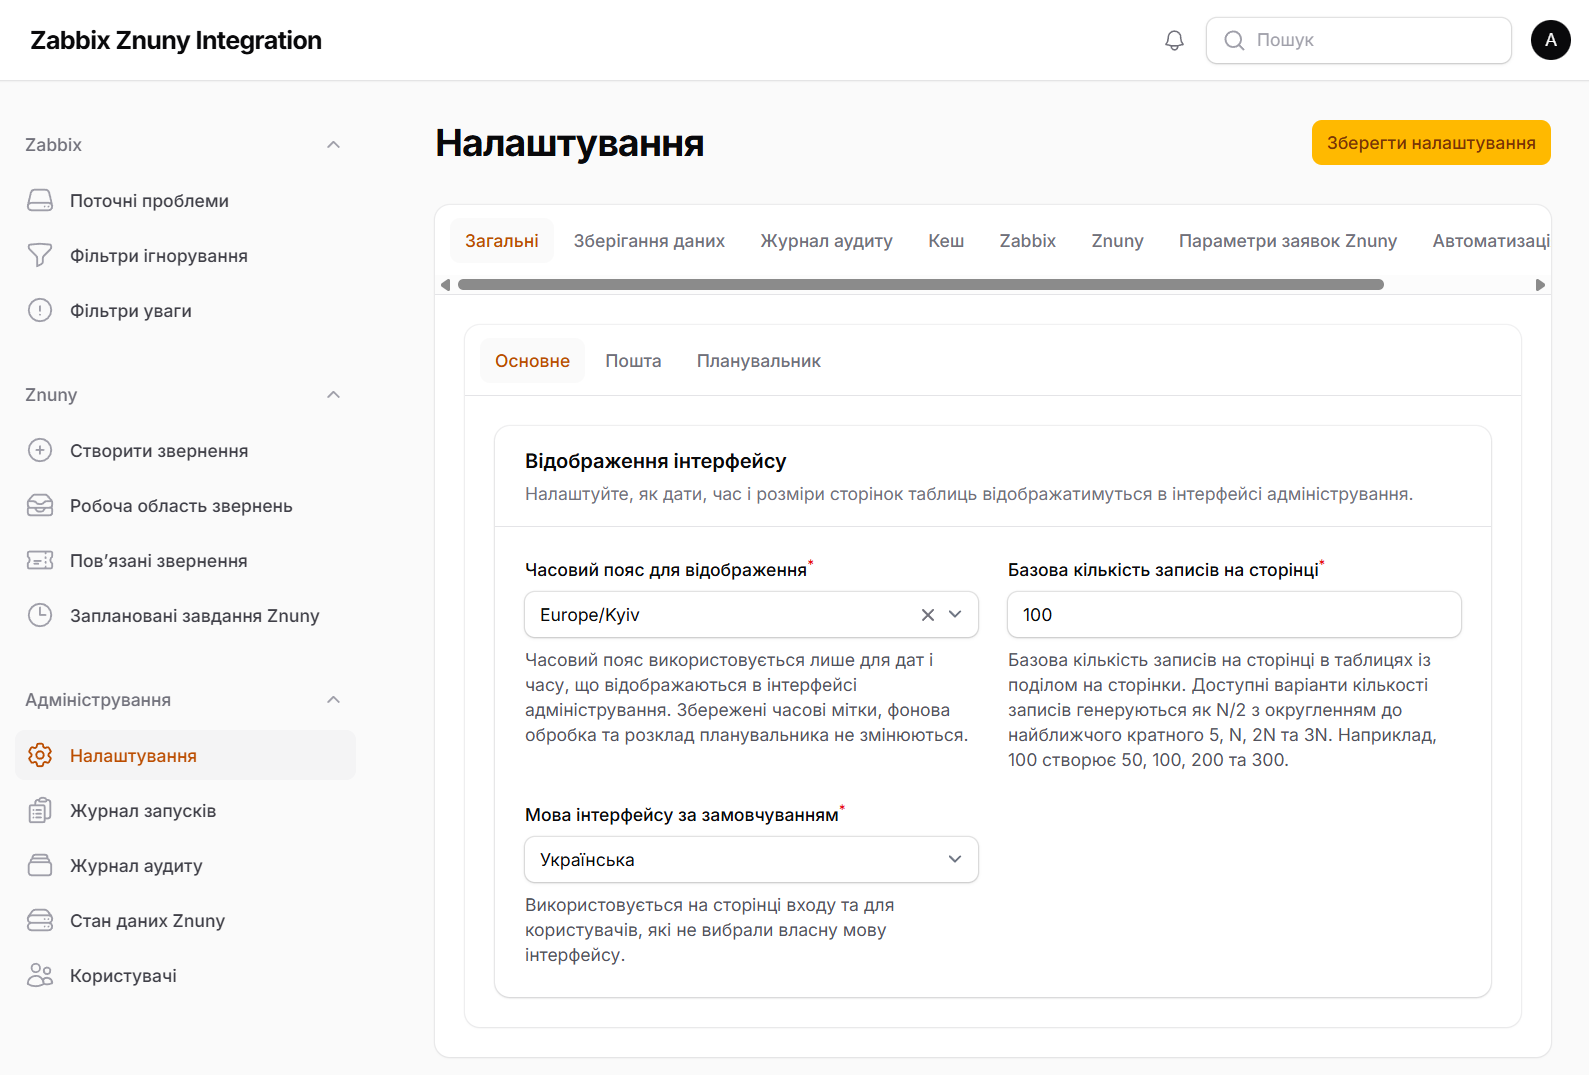
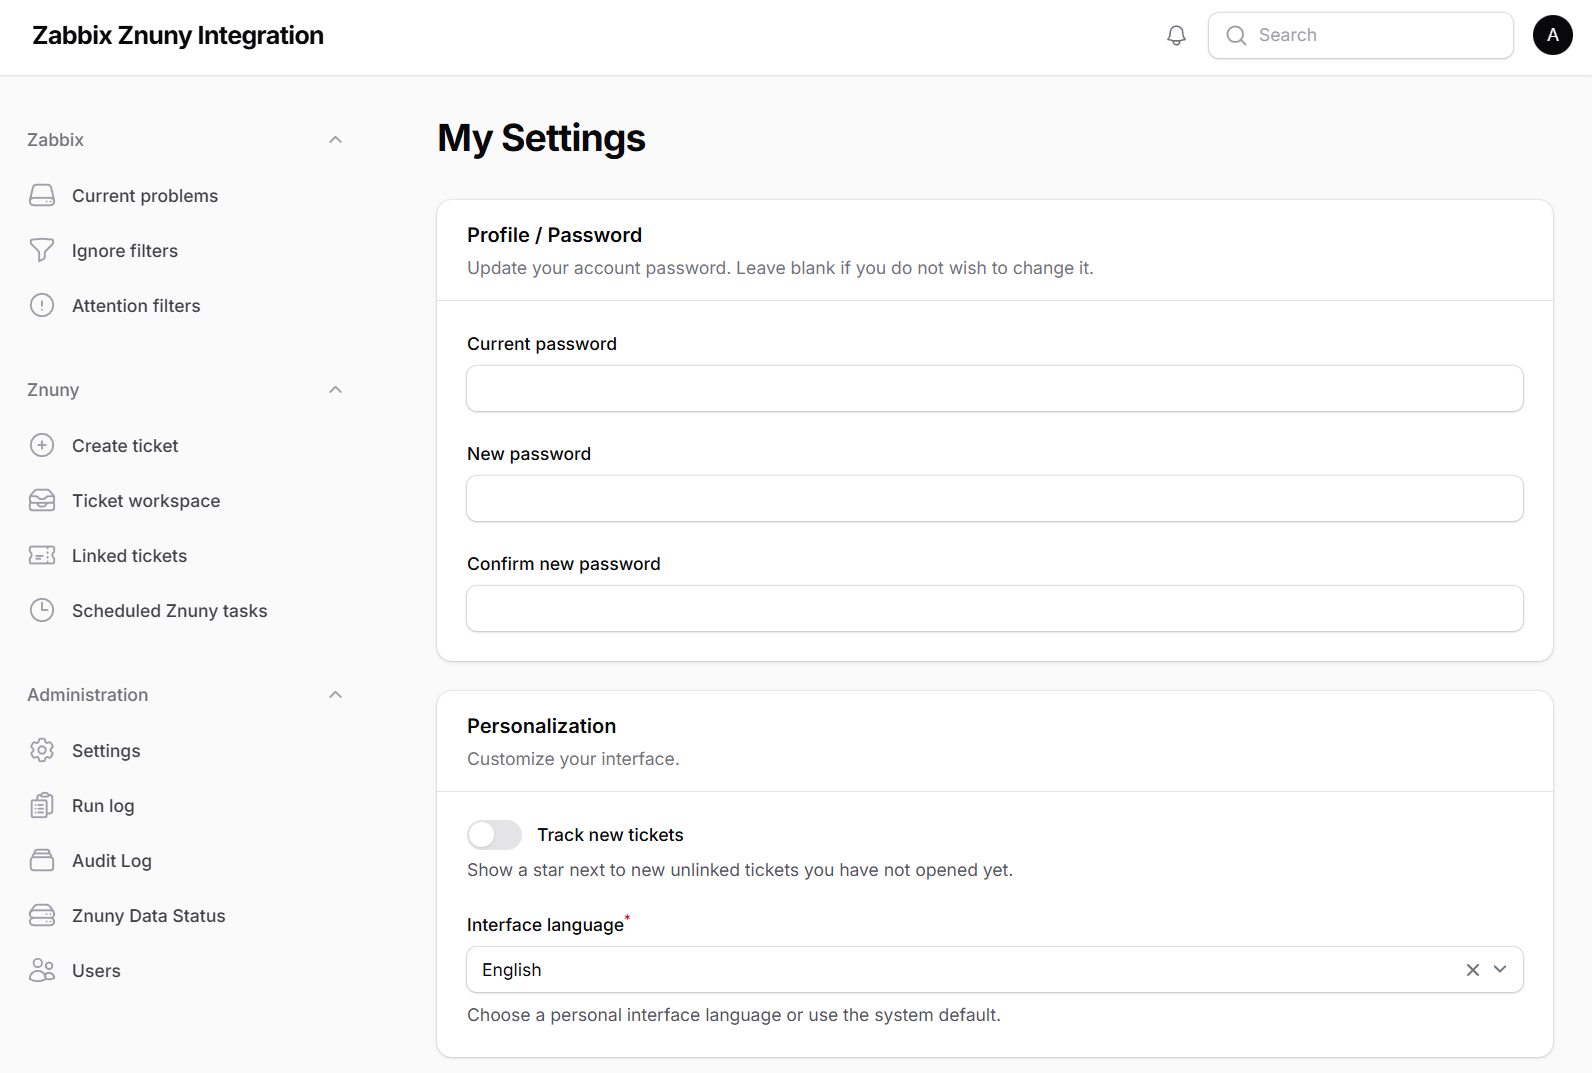
docs: refresh screenshot and document interface languages

diff --git a/README.md b/README.md
@@ -133,7 +133,7 @@ ZZI connects to Zabbix via its native API. You will need:
 
 Operational settings are fully managed from the Filament administration UI (`/admin/settings`). Major configuration areas include:
 
-- **General**: UI display timezone, default language, and pagination options.
+- **General**: UI display timezone, default language, and pagination options. The interface currently supports two languages: English and Ukrainian.
 - **Data Storage**: Caching preferences, inline image storage configurations, and database cleanup policies.
 - **Audit Log**: Retention periods for the ticket creation audit logs.
 - **Zabbix**: API endpoints, authentication tokens, and problem URL templates.
